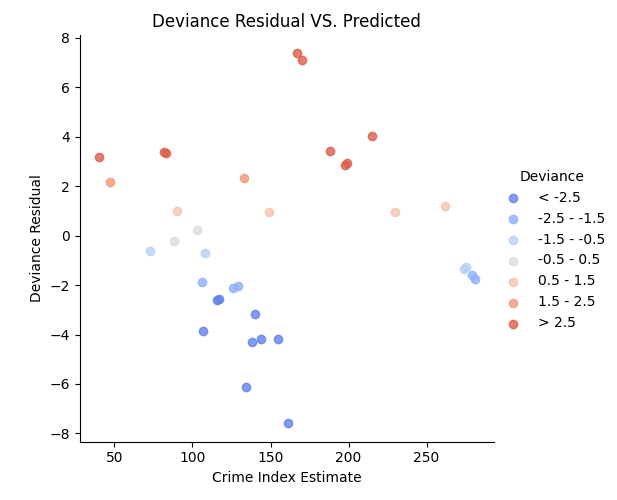
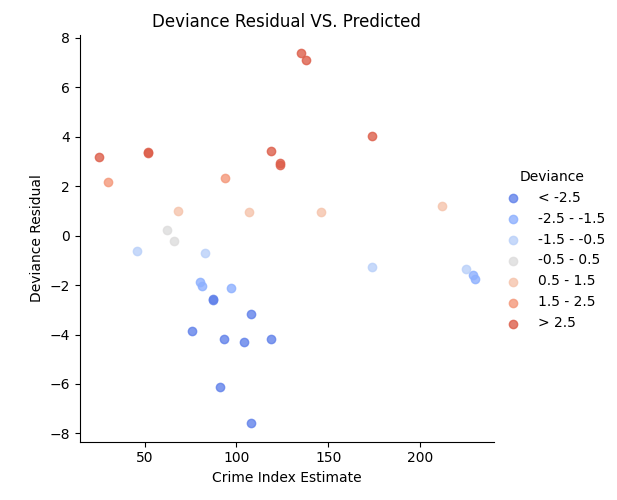
modified main.py

diff --git a/main.py b/main.py
@@ -20,6 +20,7 @@ def summary(var1):
   # name method is only valid for pandas series object
   # it is the column name
   name = var1.name
+  if name == None: name = 'variable'
   print()
   print(f'Summary of {name}')
   print(f'Min: {data_min:.3f}')
@@ -39,7 +40,7 @@ import matplotlib.pyplot as plt
 
 crime = df['2022 Property Crime Index']
 pop = df['2022 Total Population']
-inc = df['2022 Median Household Income'] / 1000
+inc = df['2022 Median Household Income']
 age = df['2022 Median Age']
 time_police = df['Minutes to Police']
 time_firedept = df['Minutes to Fire Department']
@@ -64,6 +65,7 @@ plt.axis('off')
 #plt.tight_layout()
 plt.savefig('output.png')
 #print(model.summary())
+summary(model.resid_deviance)
 
 
 residual = df['Deviance Residual']
@@ -72,11 +74,14 @@ dev = pandas.cut(residual, bins=[-10, -2.5, -1.5, -0.5, 0.5, 1.5, 2.5, 10], labe
 df2 = df.assign(Deviance = dev)
 #print(df2.to_string())
 
+
+'''
 # adding income / 1000
 income = inc
 df2 = df2.assign(Income = income)
 df2.drop(['2022 Median Household Income'],axis=1, inplace=True)
 df2 = df2.rename({"Income": '2022 Median Household Income'}, axis='columns')
+'''
 import seaborn as sns
 import matplotlib.pyplot as plt
 #print(df2.to_string())
@@ -139,7 +144,31 @@ crime_log = 7.696369 + -0.000554 * pop + -0.000003 * inc + -0.042893 * age + -0.
 crime_est = round(numpy.exp(crime_log), 0)
 df3 = df2.assign(Crime_Index_Estimate = crime_est)
 df3 = df3.rename({'Crime_Index_Estimate': 'Crime Index Estimate'}, axis='columns')
-summary(crime_est)
+
+# important to note that 'Deviance Residual' is not Y - Y^ in a GLM
+#summary(crime - crime_est)
+
+crime_estraw = numpy.exp(crime_log)
+dev1 = 2 * ( crime * numpy.log( (crime / crime_est) ) - (crime - crime_est) )
+
+res = crime - crime_est
+dev_calc = numpy.sign(res) * numpy.sqrt(dev1)
+'''
+dev_calc = []
+for i in range(len(res)):
+  if res[i] > 0:
+    dev_calc.append(numpy.sqrt(dev1[i]))
+  elif res[i] == 0:
+        dev_calc.append(0)
+  else:
+    dev_calc.append(-1 * numpy.sqrt(dev1[i]))
+dev_calc = pd.DataFrame(dev_calc)
+'''
+#print(dev_calc, df3['Deviance Residual'])
+
+summary(df3["Crime Index Estimate"])
+summary(df3['2022 Property Crime Index'])
+
 #print(df3.to_string())
 
 
@@ -166,7 +195,7 @@ from scipy.stats import norm
 import matplotlib.pyplot as plt
 import scipy.stats as stats
 
-data = np.random.normal(-0.162, 3.447, 250)
+data = np.random.normal(-0.162, 3.447, 1000)
 mu, std = norm.fit(data) 
 
 # Plot the PDF.
